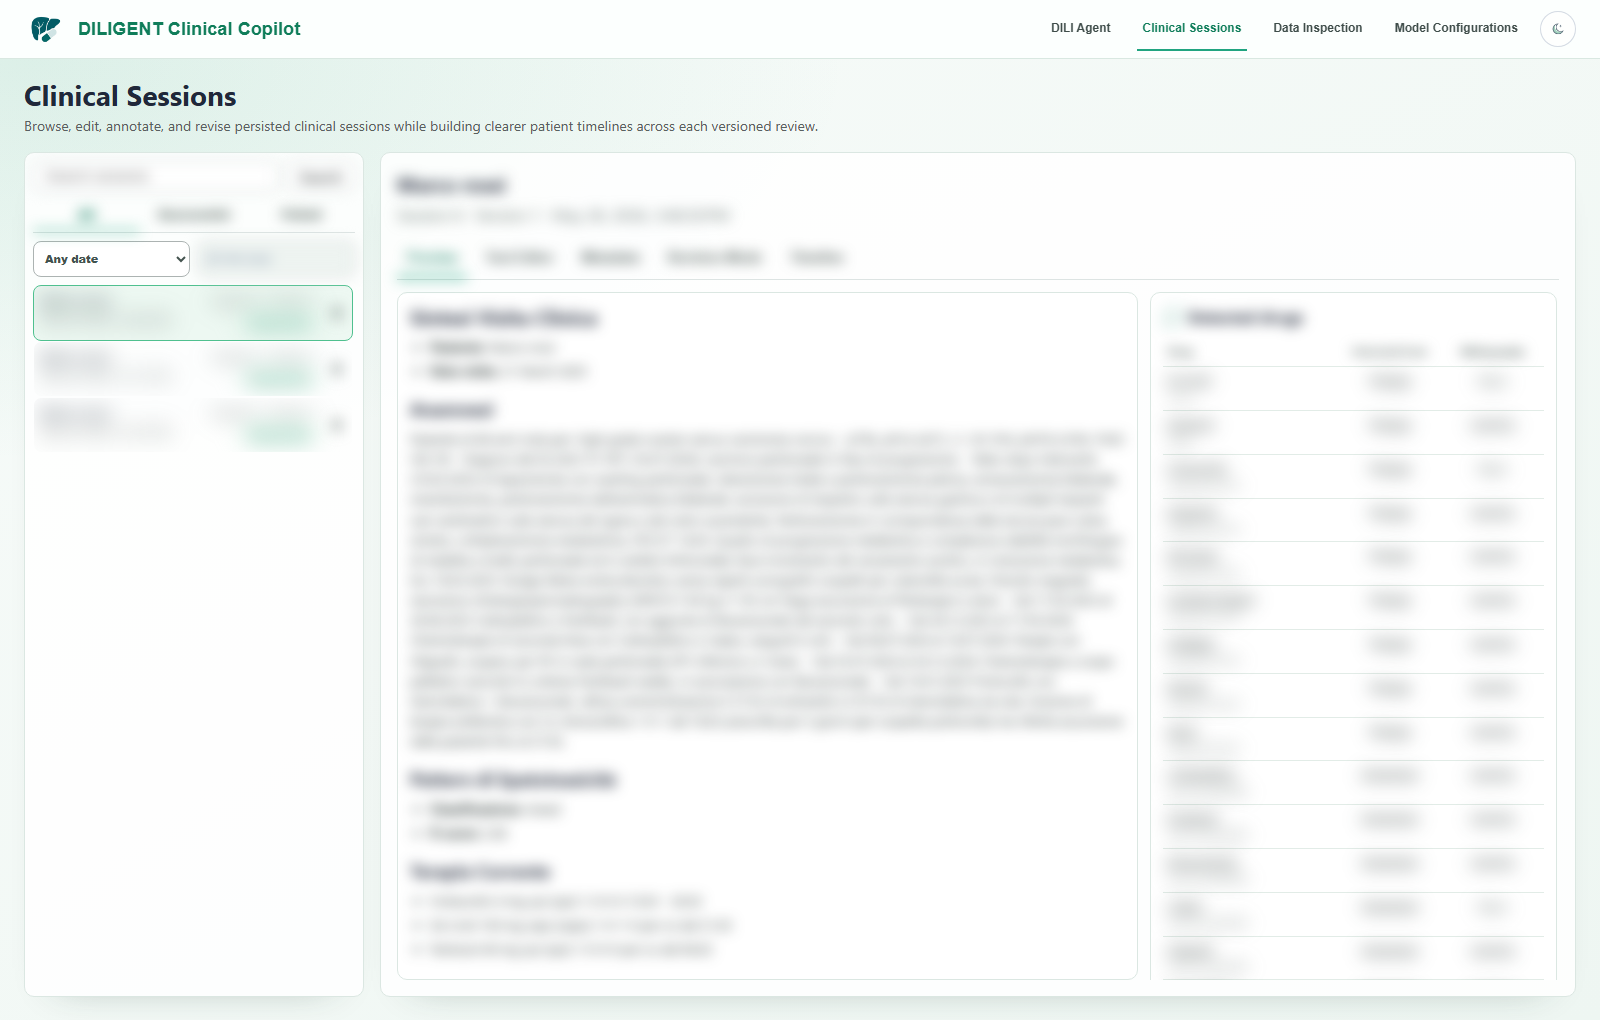
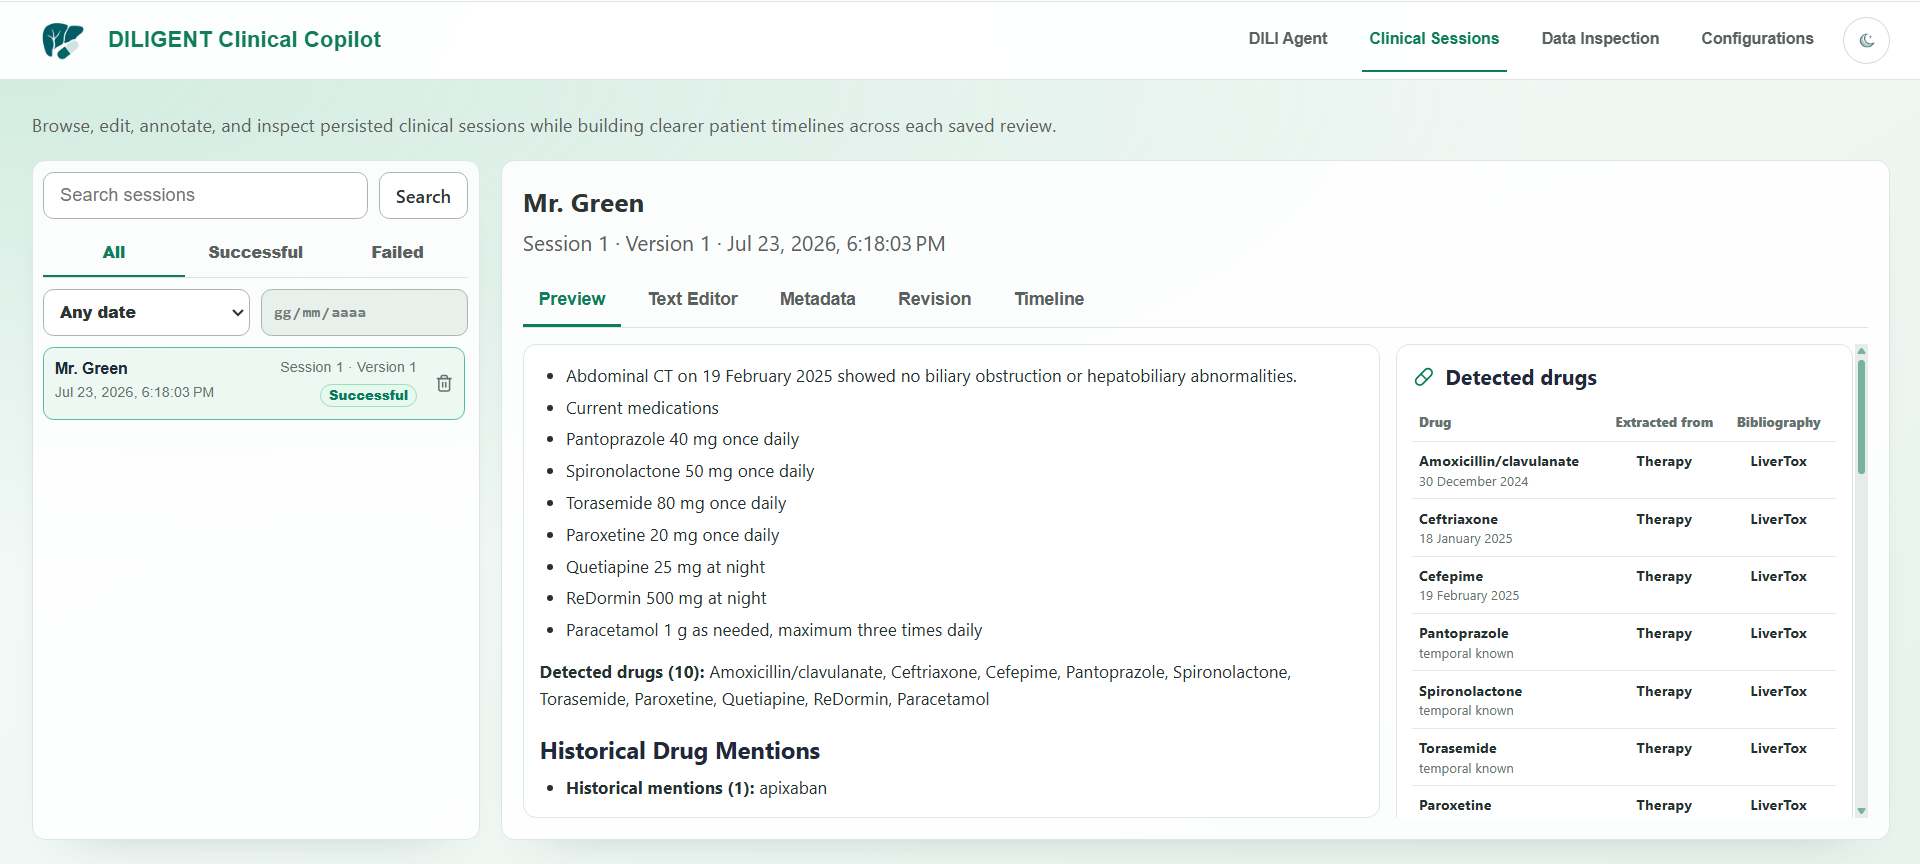
feat: Add dark theme dashboard image and update session inspection image in README

diff --git a/README.md b/README.md
@@ -143,7 +143,9 @@ The structured assessment retains details such as longitudinal events, Hy's Law 
 Use the copy or export actions only after a human reviewer has verified the result and added any required local attribution.
 
 ![Dashboard view](assets/figures/dashboard.png)
+![Dashboard view](assets/figures/dashboard-dark-theme.png)
 _The DILI Agent workspace combines structured case input with assessment actions and report output._
+
 
 ## Work with saved sessions
 
@@ -159,7 +161,7 @@ Open **Clinical Sessions** to find persisted work by identifier, date, or availa
 Manual report edits do not create a new official version. Review provenance and persisted evidence before approving an LLM-assisted revision.
 
 ![Session dashboard](assets/figures/session-inspection.png)
-_Clinical Sessions shows a persisted review workspace; the displayed case content is intentionally blurred._
+_Clinical Sessions shows a persisted review workspace._
 
 ## Use the timeline and data inspection views
 
@@ -182,19 +184,6 @@ _Data Inspection presents curated resource records, status, and maintenance info
 | A session is missing | Confirm the assessment completed and that local persistence was initialized. |
 
 Clinical jobs are process-local. Saved sessions remain durable, but an active job identifier cannot be recovered after a backend restart.
-
-## Development and validation
-
-The repository includes focused model-configuration regression commands:
-
-```cmd
-app\tests\run_tests.bat modelconfig
-app\tests\run_tests.bat modelconfigfull
-```
-
-`modelconfig` runs the focused model-configuration slice. `modelconfigfull` runs model-configuration tests, the complete application-flow suite, and the model-configuration API suite. The project tests are designed not to require local or cloud LLM calls.
-
-For implementation and operational detail, start with [the documentation index](assets/docs/project_index.md), then use the focused guides for [getting started](assets/docs/user/getting_started.md), [model setup](assets/docs/user/model_setup.md), [DILI assessment workflow](assets/docs/user/dili_assessment_workflow.md), [sessions, timeline, and data](assets/docs/user/sessions_timeline_and_data.md), and [runtime troubleshooting](assets/docs/runtime/troubleshooting.md).
 
 ## Project status and license
 
